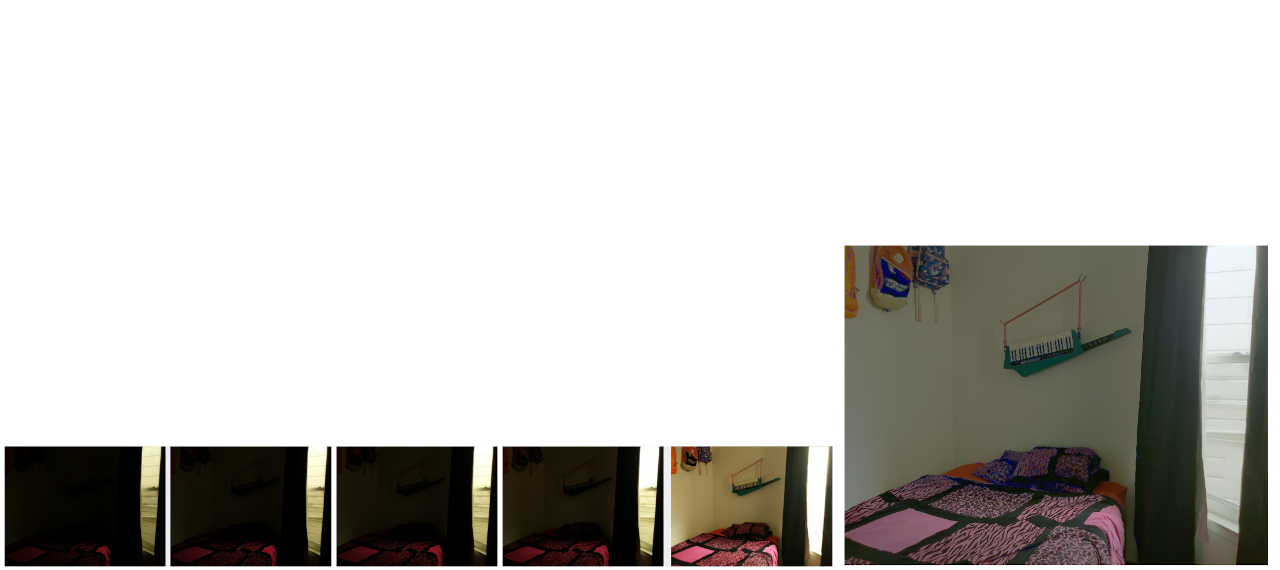
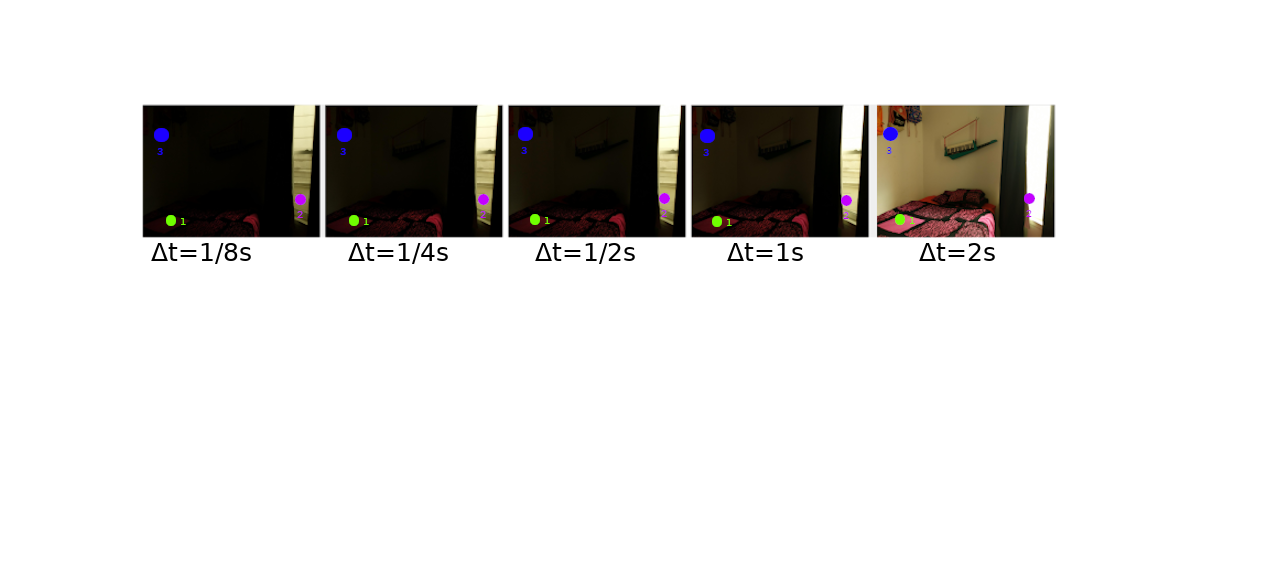
Adds HDR post

diff --git a/_posts/research/2017-04-06-hdr.md b/_posts/research/2017-04-06-hdr.md
@@ -16,62 +16,76 @@ project:
 images:
   - image:
     url: "/assets/media/research/hdr/first.png"
-    alt: "Demonstration of pyramid blending on the beach and sky"
+    alt: "HDR image created from a radiance map"
   - image:
     url: "/assets/media/research/hdr/second.png"
-    alt: "Demonstration of pyramid blending on the beach and sky"
+    alt: "Image acquisition pipeline and false color image of radiance map"
   - image:
     url: "/assets/media/research/hdr/third.png"
-    alt: "Demonstration of pyramid blending on the beach and sky"
+    alt: "Images at different shutter speeds"
 videos:
 ---
 <p>
-Representing an image as a <a href="https://en.wikipedia.org/wiki/Pyramid_(image_processing)"> pyramid </a> has a 
-number of uses in image processing.  The general process is to downsize and blur an image multiple times creating a stack 
-(or pyramid) of images each at a lower resolution. The resulting pyramid can be used for things such as object 
-recognition at different scales and certain types of compression.
+Today High Dynamic Range Images, or HDRI are commonplace. Many smartphones contain built-in support for HDR images and 
+some even default to using HDR to capture images.
 </p>
 
 <p>
-In this application the image pyramid is used to create a blended image.  The smaller and more blurry images in the 
-pyramid serve as a low-pass filtered version of the image. A stack of these forms a Gaussian pyramid.
-The Gaussian pyramid can be used to create a high-pass filtered version of the image called a Laplacian pyramid.
-The formula for a Laplacian pyramid at a level $i$ is given as:
+Fundamentally dealing with HDR data is all about capturing the radiance of the scene. A naive thought would be that 
+pixels appearing twice as bright in an image relate to areas in the photographed scene with twice as much radiance.
+</p>
+
+<p>
+For many reasons this is not true, and one challenging reason is the non-linear response function of cameras. This 
+function is not usually published by camera makers who consider it a trade secret. 
+</p>
+
+<p>
+Recovering this function allows more than just the the common HDRI-style images (and their hyper-realistic 
+tone-mapped counterparts), including being able to achieve more realistic motion-blur, color-correction and edge 
+detection in images. 
+</p>
+
+<p>
+With a stack of aligned images at different exposures, the non-linear response function can be recovered in the
+following process.
 </p>
 
 <p>
 $$
-\begin{aligned}
-L_{i} = G_{i} - (K * G_{i})
-\end{aligned}
+Z_{ij} = f(E\Delta t)
 $$
+Where $i$ indexes over pixel locations and $j$ indexes over the different equations.
 </p>
 
 <p>
-Where $K$ is the downsize and blur operator and $G_{i}$ represents an image from the Gaussian pyramid at level $i$.
-Expanding and adding images from the Laplacian pyramid can recreate the original image with no data loss.
+With some manipulation this simplifies to:
+$$
+g(Z_{ij}) = \ln E_i + \ln \Delta t_j
+$$
+Where $g = \ln f^{-1}$
 </p>
 
 <p>
-Effectively this means that a wider blend region can be used in low-frequency content and a 
-narrower blend region can be used in high-frequency content such as edges.
+Written in this form $g$ (and therefore eventually $f$) can be recovered up to a scale by using the $SVD$ to minimize 
+a related objective function. 
 </p>
 
 <p>
-This technique can be used to avoid a halo effect in images which make blend regions more noticeable.
+With this function recovered the radiance can be visualized a number of ways (for instance usually by scaling the radiance
+to the display device).
 </p>
 
 <p>
 This project implements the following academic papers:
 <ul>
     <li>
-        <a href="https://ieeexplore.ieee.org/document/1095851/authors#authors">The Laplacian Pyramid as a Compact Image Code</a>
+        <a href="https://dl.acm.org/doi/10.1145/1401132.1401174">Recovering High Dynamic Range Radiance Maps from Photographs</a> by Paul E. Debevec and Jitendra M. Malik
     </li>
     <li>
-        <a href="http://citeseerx.ist.psu.edu/viewdoc/summary?doi=10.1.1.56.690">A Multiresolution Spline With Application to Image Mosaics</a>
+        <a href="https://ieeexplore.ieee.org/document/1240119">Determining the camera response from images: what is knowable?</a> M.D. Grossberg, S.K. Nayar
      </li>
+     <li>
+         <a href="https://ieeexplore.ieee.org/document/1323796">Modeling the space of camera response functions</a> M.D. Grossberg, S.K. Nayar
+      </li>
 </ul>
-
-<p>
-Both of which were authored by Peter Burt and Edward Adelson
-</p>
